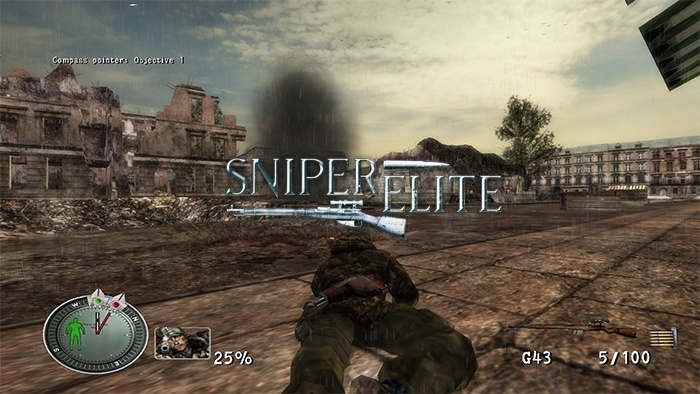
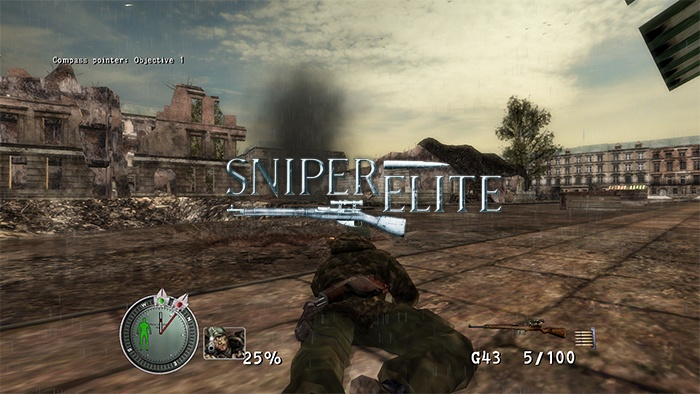
-

diff --git a/wfp.html b/wfp.html
@@ -1458,7 +1458,7 @@
 				</div>
 				
 				<!-- SNIPERELITE -->
-				<div class="panel panel-primary" id="sniperelite" style="filter: grayscale(100%);">
+				<div class="panel panel-primary" id="sniperelite">
 					<div class="pull-left img-comparison">
 						<img class="lazy img-responsive img-rounded img-nopad" alt="" width="653" height="367" onmouseover="this.src='screens/sniperelitemain1.jpg';" onmouseout="this.src='screens/sniperelitemain2.jpg';" data-original="screens/sniperelitemain2.jpg"/>
 					</div>
@@ -1471,8 +1471,7 @@
 
 					<div class="panel-body indent5">
 						<h4 class="word-wrap"><a href="http://www.rebellion.co.uk/" target="_blank">http://www.rebellion.co.uk/</a></h4>
-						<p>Supported exe version: <b>SniperElite.exe v1.x (steam)</b></p>
-						<p>Supported exe size: <b>3,40 MB (3 571 712 bytes)</b></p>
+						<p>Supported exe version: <b>Any</b></p>
 						<p align="justify">Installation: <b>Unpack content of archive to Sniper Elite root directory. Game will run in your native resolution, or you can set it manually via ini.</b></p>
 					
 						<div class="centered">
@@ -1528,6 +1527,37 @@
 					</a>
 					</div>
 					</br>
+				</div>
+				
+				<div class="panel panel-primary" style="border-color: #e85128;box-shadow: 0 0 5px #e85128;" id="onimusha3">
+					<div class="pull-left img-comparison">
+						<img class="lazy img-responsive img-rounded img-nopad" alt="" width="653" height="367" onmouseover="this.src='screens/onimusha3main1.jpg';" onmouseout="this.src='screens/onimusha3main2.jpg';" data-original="screens/onimusha3main2.jpg"/>
+					</div>
+	
+					<div class="panel-heading panel-round-corners" style="background-color: #e85128;border-color: #e85128;">
+						<h4 class="panel-title pull-right centered"><a href="#onimusha3">Onimusha 3 Widescreen Fix</a></h4>					
+					</div>
+
+					<div class="release-info"></div>
+
+					<div class="panel-body indent5">
+						<h4 class="word-wrap"><a href="" target="_blank"></a></h4>
+						<p>Supported exe version: <b>Any</b></p>
+						<p align="justify">Installation: <b>Copy content of archive to Onimusha 3 folder. Check the .ini file to get more info about available features. I was unable to scale "Effect" option properly, so it was disabled. To switch between fullscreen and windowed mode press Alt+Enter.</b></p>
+						<div class="centered">
+							<div class="btn-group">
+							<a style="margin-right:0;" class="btn btn-default" target="_blank" href="https://github.com/ThirteenAG/WidescreenFixesPack/releases/tag/onimusha3">
+							<span class="glyphicon glyphicon-download-alt"></span> Download</a>
+							<a class="btn btn-default dropdown-toggle" data-toggle="dropdown"><span class="caret"></span></a>
+								<ul class="dropdown-menu">
+									<li><a target="_blank" href="https://github.com/ThirteenAG/WidescreenFixesPack/releases/download/onimusha3/Onimusha3.WidescreenFix.zip">Direct Link</a></li>
+								</ul>
+							</div>
+							<button class="demo btn btn-default" data-toggle="modal" onclick="OpenModal('onimusha3')"><span class="glyphicon glyphicon-picture"></span> Screenshots</button>
+							<br><br>
+							<p>Thank you, everyone, who supported the development of this fix on <a href="https://www.patreon.com/WFP">patreon.com/wfp</a>!</p>
+						</div>
+					</div>
 				</div>
 			
 				<!--div class="panel panel-primary" style="border-color: #e85128;box-shadow: 0 0 5px #e85128;" id="#patreon">
@@ -1824,7 +1854,7 @@
 		{ "tabname" : "sec7", "contentname" : "#sh" }, //11
         { "tabname" : "s_other1", "contentname" : "#manhunt #coldfear #tod #psiops #truecrimesola #truecrimenyc #stubbsthezombie #da4 #srs #paradisecracked" }, //5
         { "tabname" : "s_other2", "contentname" : "#mafia #gun #punisher #secondsight #sonicheroes #sniperelite" }, //6
-		{ "tabname" : "patreon", "contentname" : "__________" }, //12
+		{ "tabname" : "patreon", "contentname" : "#onimusha3" }, //12
         { "tabname" : "s_all", "contentname" : "#s_all" }, //7
         { "tabname" : "latest_updates", "contentname" : "#latest_updates" }, //8
         { "tabname" : "comments", "contentname" : "#comments" } //9

diff --git a/screens/onimusha3.html b/screens/onimusha3.html
@@ -1,9 +1,14 @@
 <script type="text/javascript">
-	var id = "sniperelite";
-	var screen1 = "[url=http://i.imgur.com/pNyXnm3.jpg][img]http://i.imgur.com/pNyXnm3m.jpg[/img][/url]";
-	var screen2 = "[url=http://i.imgur.com/Cdh3JnG.jpg][img]http://i.imgur.com/Cdh3JnGm.jpg[/img][/url]";
-	var screen3 = "[url=http://i.imgur.com/tcw7v94.jpg][img]http://i.imgur.com/tcw7v94m.jpg[/img][/url]";
-	var screen4 = "[url=http://i.imgur.com/c3ZatMq.jpg][img]http://i.imgur.com/c3ZatMqm.jpg[/img][/url]";
+	var id = "onimusha3";
+	var screen1 = "[url=http://i.imgur.com/Pu8dKiH.jpg][img]http://i.imgur.com/Pu8dKiHm.jpg[/img][/url]";
+	var screen2 = "[url=http://i.imgur.com/DhhtcO2.png][img]http://i.imgur.com/DhhtcO2m.jpg[/img][/url]";
+	var screen3 = "[url=http://i.imgur.com/mfo5XSR.jpg][img]http://i.imgur.com/mfo5XSRm.jpg[/img][/url]";
+	var screen4 = "[url=http://i.imgur.com/XBr64ET.jpg][img]http://i.imgur.com/XBr64ETm.jpg[/img][/url]";
+	var screen5 = "[url=http://i.imgur.com/WSeoDUj.jpg][img]http://i.imgur.com/WSeoDUjm.jpg[/img][/url]";
+	var screen6 = "[url=http://i.imgur.com/JukXA7X.jpg][img]http://i.imgur.com/JukXA7Xm.jpg[/img][/url]";
+	var screen7 = "[url=http://i.imgur.com/6Ey5wV5.jpg][img]http://i.imgur.com/6Ey5wV5m.jpg[/img][/url]";
+	var screen8 = "[url=http://i.imgur.com/kfVDIFn.jpg][img]http://i.imgur.com/kfVDIFnm.jpg[/img][/url]";
+	var screen9 = "[url=http://i.imgur.com/pxkjX1Z.jpg][img]http://i.imgur.com/pxkjX1Zm.jpg[/img][/url]";
 	var youtube = "";
 	var github = "https://github.com/ThirteenAG/Widescreen_Fixes_Pack/releases/tag/"+id;
 	
@@ -13,11 +18,21 @@
 	document.getElementById("scr2").href = screen2.split(re)[1];
 	document.getElementById("scr3").href = screen3.split(re)[1];
 	document.getElementById("scr4").href = screen4.split(re)[1];
+	document.getElementById("scr5").href = screen5.split(re)[1];
+	document.getElementById("scr6").href = screen6.split(re)[1];
+	document.getElementById("scr7").href = screen7.split(re)[1];
+	document.getElementById("scr8").href = screen8.split(re)[1];
+	document.getElementById("scr9").href = screen9.split(re)[1];
 	
 	document.getElementById("thumb1").src = screen1.split(re)[2];
 	document.getElementById("thumb2").src = screen2.split(re)[2];
 	document.getElementById("thumb3").src = screen3.split(re)[2];
 	document.getElementById("thumb4").src = screen4.split(re)[2];
+	document.getElementById("thumb5").src = screen5.split(re)[2];
+	document.getElementById("thumb6").src = screen6.split(re)[2];
+	document.getElementById("thumb7").src = screen7.split(re)[2];
+	document.getElementById("thumb8").src = screen8.split(re)[2];
+	document.getElementById("thumb9").src = screen9.split(re)[2];
 	
 	document.getElementById("yt").src = youtube;
 	document.getElementById("dl").href = github;
@@ -36,9 +51,15 @@
 		<center>
 		<a id="scr1"><img id="thumb1" style="margin:10px;"></a>
 		<a id="scr2"><img id="thumb2" style="margin:10px;"></a>
-		<br/>
 		<a id="scr3"><img id="thumb3" style="margin:10px;"></a>
+		<br/>
 		<a id="scr4"><img id="thumb4" style="margin:10px;"></a>
+		<a id="scr5"><img id="thumb5" style="margin:10px;"></a>
+		<a id="scr6"><img id="thumb6" style="margin:10px;"></a>
+		<br/>
+		<a id="scr7"><img id="thumb7" style="margin:10px;"></a>
+		<a id="scr8"><img id="thumb8" style="margin:10px;"></a>
+		<a id="scr9"><img id="thumb9" style="margin:10px;"></a>
 		</center>
 	
         <div id="ytdiv" class="row" style="margin-right: -15px; min-height: 315px;	margin-left: -15px;	text-align: center;	float: none !important;	display: block;">
